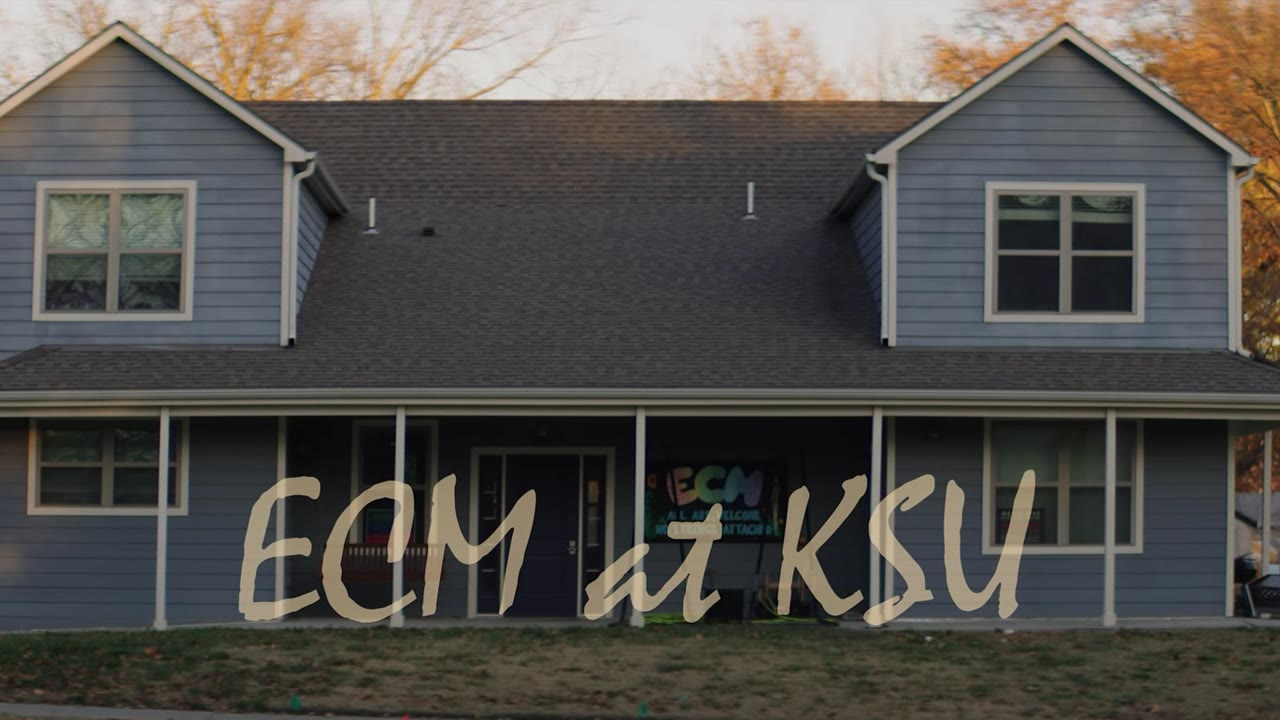
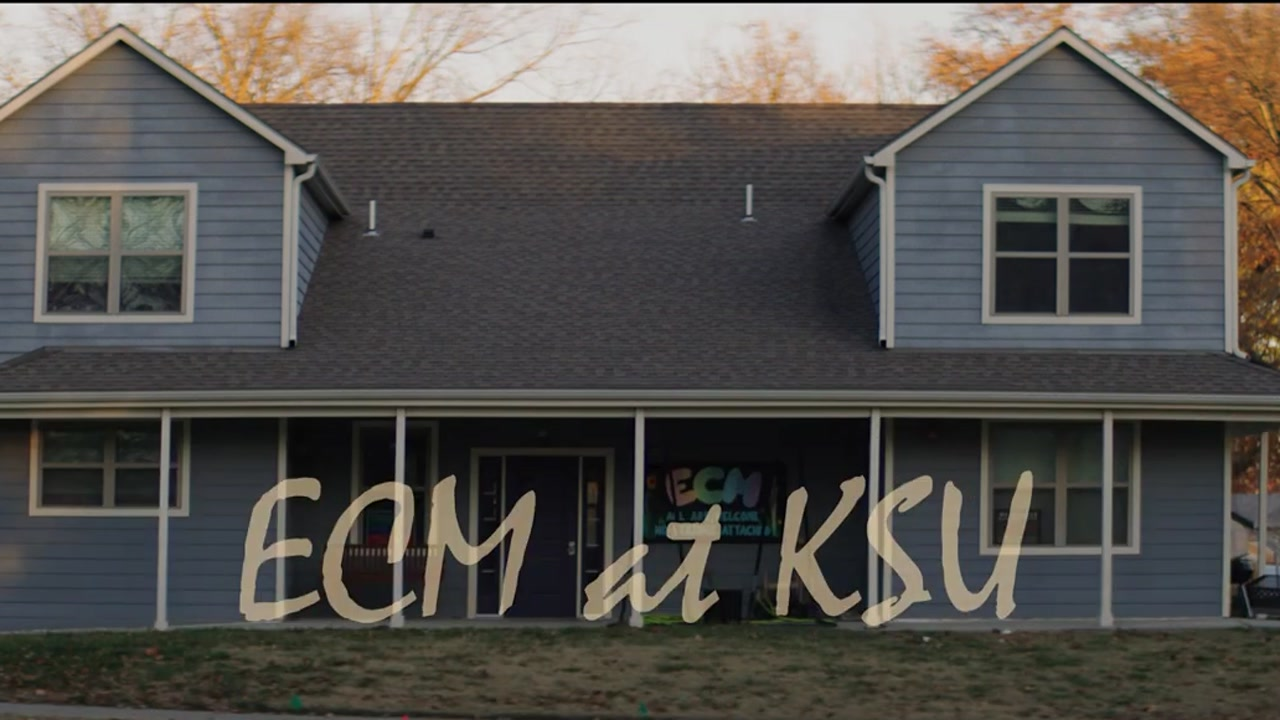
Spotlight featured poster and refresh ECM film stills

diff --git a/work/hungry-heartland-ecm.html b/work/hungry-heartland-ecm.html
@@ -9,7 +9,7 @@
 <meta property="og:description" content="A portrait of Ecumenical Campus Ministry at Kansas State University. Its director talks about food security as health, sustainability, and community: a kitchen that cooks vegan so everyone can eat, and a yard planted with food.">
 <meta property="og:type" content="video.other">
 <meta property="og:url" content="https://brocknedwards.com/work/hungry-heartland-ecm.html">
-<meta property="og:image" content="https://brocknedwards.com/img/stills/ecm-hungry-heartland-1.jpg">
+<meta property="og:image" content="https://brocknedwards.com/img/work/ecm-hungry-heartland.jpg">
 <link rel="icon" href="../favicon.svg" type="image/svg+xml">
 <link rel="preconnect" href="https://fonts.googleapis.com">
 <link rel="preconnect" href="https://fonts.gstatic.com" crossorigin>
@@ -57,12 +57,12 @@
           <div class="curve-tl" style="--still-ar: 2558 / 852">
             <svg class="curve" aria-hidden="true"><path class="track"/><path class="fill"/><path class="sketch"/><path class="accent-sketch"/></svg>
             <ol>
-              <li><figure><button class="still-open" type="button"><img src="../img/stills/ecm-hungry-heartland-1.jpg" alt="The ECM house at dusk as someone walks past" loading="lazy"></button><figcaption>Frame 01</figcaption></figure></li>
-              <li><figure><button class="still-open" type="button"><img src="../img/stills/ecm-hungry-heartland-2.jpg" alt="A school bus passes the ECM house" loading="lazy"></button><figcaption>Frame 02</figcaption></figure></li>
-              <li><figure><button class="still-open" type="button"><img src="../img/stills/ecm-hungry-heartland-3.jpg" alt="The director's hands, clasped" loading="lazy"></button><figcaption>Frame 03</figcaption></figure></li>
-              <li><figure><button class="still-open" type="button"><img src="../img/stills/ecm-hungry-heartland-4.jpg" alt="The director in a scarf in the yard" loading="lazy"></button><figcaption>Frame 04</figcaption></figure></li>
-              <li><figure><button class="still-open" type="button"><img src="../img/stills/ecm-hungry-heartland-5.jpg" alt="An elderberry bush in front of ECM" loading="lazy"></button><figcaption>Frame 05</figcaption></figure></li>
-              <li><figure><button class="still-open" type="button"><img src="../img/stills/ecm-hungry-heartland-6.jpg" alt="The director walks into the kitchen" loading="lazy"></button><figcaption>Frame 06</figcaption></figure></li>
+              <li><figure><button class="still-open" type="button"><img src="../img/stills/ecm-film-01.jpg" alt="ECM building with ECM at KSU title text" loading="lazy"></button><figcaption>0:10</figcaption></figure></li>
+              <li><figure><button class="still-open" type="button"><img src="../img/stills/ecm-film-02.jpg" alt="ECM director smiling during an interview" loading="lazy"></button><figcaption>1:00</figcaption></figure></li>
+              <li><figure><button class="still-open" type="button"><img src="../img/stills/ecm-film-03.jpg" alt="ECM director tending plants in the garden" loading="lazy"></button><figcaption>1:12</figcaption></figure></li>
+              <li><figure><button class="still-open" type="button"><img src="../img/stills/ecm-film-04.jpg" alt="ECM director gesturing outside the building" loading="lazy"></button><figcaption>2:41</figcaption></figure></li>
+              <li><figure><button class="still-open" type="button"><img src="../img/stills/ecm-film-05.jpg" alt="Colorful ECM sign welcoming everyone" loading="lazy"></button><figcaption>3:12</figcaption></figure></li>
+              <li><figure><button class="still-open" type="button"><img src="../img/stills/ecm-film-06.jpg" alt="ECM director working in the kitchen" loading="lazy"></button><figcaption>3:39</figcaption></figure></li>
             </ol>
           </div>
         </div>

diff --git a/index.html b/index.html
@@ -34,6 +34,7 @@
   </div>
 </header>
 
+<div class="film-spotlight" aria-hidden="true"></div>
 <main>
 
 
@@ -72,8 +73,10 @@
   <section id="film">
     <div class="wrap">
       <div class="film">
-        <img class="poster" src="img/ttws-poster.jpg" width="1000" height="1500"
-          alt="Poster for The Table We Share, with festival laurels">
+        <a class="film-poster" href="work/the-table-we-share.html" aria-label="View The Table We Share film page">
+          <img class="poster" src="img/ttws-poster.jpg" width="1000" height="1500"
+            alt="Poster for The Table We Share, with festival laurels">
+        </a>
         <div>
           <h2 class="titled"><span class="lead">Docushort</span> The Table We Share</h2>
           <p class="meta">Emmaus House · Garden City, Kansas</p>
@@ -202,6 +205,29 @@ reelPoster?.addEventListener('click', event => {
   player.allowFullscreen = true;
   reelPoster.replaceWith(player);
 });
+const filmPoster = document.querySelector('.film-poster');
+const filmSpotlight = document.querySelector('.film-spotlight');
+function positionFilmSpotlight() {
+  if (!filmPoster || !filmSpotlight || !document.body.classList.contains('film-spotlit')) return;
+  const rect = filmPoster.getBoundingClientRect();
+  filmSpotlight.style.setProperty('--spot-x', `${rect.left + rect.width / 2}px`);
+  filmSpotlight.style.setProperty('--spot-y', `${rect.top + rect.height / 2}px`);
+  filmSpotlight.style.setProperty('--spot-rx', `${rect.width * .85}px`);
+  filmSpotlight.style.setProperty('--spot-ry', `${rect.height * .75}px`);
+}
+function showFilmSpotlight() {
+  document.body.classList.add('film-spotlit');
+  positionFilmSpotlight();
+}
+function hideFilmSpotlight() {
+  document.body.classList.remove('film-spotlit');
+}
+filmPoster?.addEventListener('pointerenter', showFilmSpotlight);
+filmPoster?.addEventListener('pointerleave', hideFilmSpotlight);
+filmPoster?.addEventListener('focus', showFilmSpotlight);
+filmPoster?.addEventListener('blur', hideFilmSpotlight);
+addEventListener('scroll', positionFilmSpotlight, { passive: true });
+addEventListener('resize', positionFilmSpotlight);
 </script>
 </body>
 </html>

diff --git a/styles.css b/styles.css
@@ -97,6 +97,16 @@ section { padding: 88px 0; border-bottom: 1px solid var(--rule); scroll-margin-t
 
 .film { display: grid; grid-template-columns: 1fr 1.2fr; gap: 56px; align-items: center; }
 .film img.poster { width: 100%; height: auto; display: block; }
+.film-spotlight { position: fixed; inset: 0; z-index: 11; pointer-events: none; opacity: 0;
+  background: radial-gradient(ellipse var(--spot-rx, 360px) var(--spot-ry, 440px) at var(--spot-x, 50%) var(--spot-y, 50%),
+    rgba(17,17,17,.04) 0%, rgba(17,17,17,.32) 72%, rgba(17,17,17,.56) 100%);
+  transition: opacity .85s cubic-bezier(.22, 1, .36, 1); }
+.film-spotlit .film-spotlight { opacity: 1; }
+.film-poster { position: relative; display: block; text-decoration: none; transform: translateY(0) scale(1);
+  box-shadow: 0 12px 26px rgba(17,17,17,.14); transition: transform .85s cubic-bezier(.22, 1, .36, 1), box-shadow .85s cubic-bezier(.22, 1, .36, 1); }
+.film-poster:hover, .film-poster:focus-visible { z-index: 12; transform: translateY(-22px) scale(1.08);
+  box-shadow: 0 34px 70px rgba(17,17,17,.38), 0 0 42px rgba(232,121,43,.22); }
+.film-poster:focus-visible { outline: 3px solid var(--accent-ink); outline-offset: 5px; }
 .film p { margin: 0 0 16px; max-width: 52ch; }
 .film h1 { font-size: clamp(40px, 6vw, 64px); }
 .meta { font: 500 13px var(--narrow); letter-spacing: .18em; text-transform: uppercase; color: var(--muted); }
@@ -264,6 +274,8 @@ a:hover .thumb .watch, a:focus-visible .thumb .watch { opacity: 1; }
   .curve-tl figure { transform: none; }
 }
 @media (prefers-reduced-motion: reduce) {
+  .film-poster, .film-spotlight { transition: none; }
+  .film-poster:hover, .film-poster:focus-visible { transform: none; }
   .curve-tl figure { transition: none; }
   .still-open, .still-open img, .still-open::after { transition: none; }
 }

diff --git a/work.html b/work.html
@@ -64,7 +64,7 @@
       <p class="eyebrow">Documentary shorts</p>
       <div class="cards two">
         <a class="card" href="work/hungry-heartland-ecm.html">
-          <span class="thumb"><img src="img/stills/ecm-hungry-heartland-3.jpg" alt="The ECM director smiles at the camera" loading="lazy"><span class="rt">5:25</span><span class="watch">Watch ▶</span></span>
+          <span class="thumb"><img src="img/work/ecm-hungry-heartland.jpg" alt="ECM building with ECM at KSU title text" loading="lazy"><span class="rt">5:25</span><span class="watch">Watch ▶</span></span>
           <h3>Hungry Heartland: ECM</h3>
           <p class="meta">The Engaged Stories Lab at K-State · 2025</p>
         </a>
